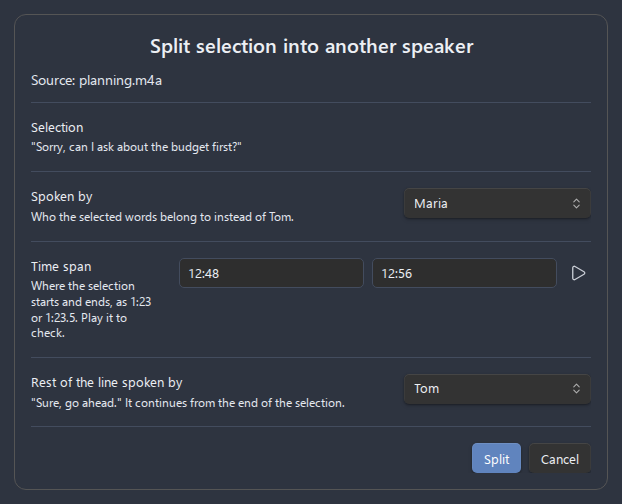
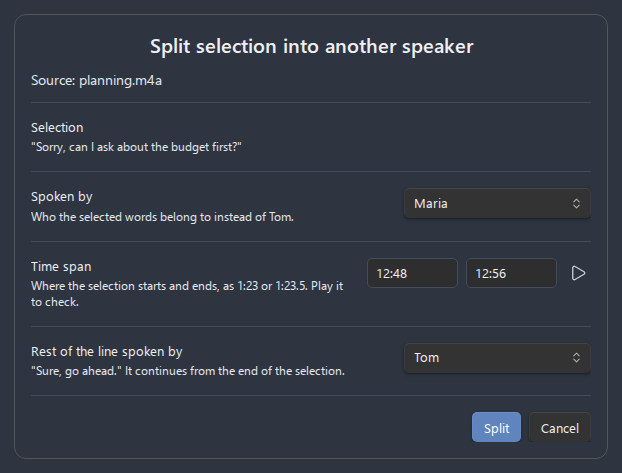
fix(speakers): find a split line's segments by its text, not only its second
Functional Changes:
- locateRowSegments identified a transcript line only by the whole second of
  its timecode link and its speaker, and took the first match. Two lines of
  one speaker opening in the same second (a short turn interrupted by
  another speaker, or unmerged segments) resolved to the earlier one, so a
  split rewrote another turn in the JSON, SRT, WebVTT and TXT files and
  dropped it. A run of segments now counts only when its text, joined the
  way the renderer merges a row, reads as the line's text, and the line is
  found only when exactly one run does; a hand-edited line or one of two
  identical lines changes the note alone, as the dialog already says.
- The split dialog's time fields keep the width of a timecode instead of
  taking the whole control column and squeezing the row's description
  (aar-split-time-input), and docs/images/dialog-split-transcript-line.png
  is re-rendered with it.

Test Changes:
- Unit cases for the interrupted turn, unmerged same-second segments, a
  hand-edited line and two identical lines.
- Integration cases for splitting the turn after an interruption, for the
  pieces keeping the templates the note was written with when the settings
  differ, and for the time fields' class.
- Coverage baseline re-recorded at 6358 tests.

diff --git a/src/speakers/transcriptSplit.ts b/src/speakers/transcriptSplit.ts
@@ -30,7 +30,10 @@ import {
 	type TranscriptMarkdownOptions,
 	type TranscriptMarkdownSettings,
 } from '../transcription/transcriptFormat';
-import { collectSpeakers } from '../transcription/transcriptModel';
+import {
+	collectSpeakers,
+	normalizeWhitespace,
+} from '../transcription/transcriptModel';
 import type {
 	Transcript,
 	TranscriptSegment,
@@ -127,38 +130,54 @@ export interface RowLocation {
 	nextSeconds: number | null;
 	/** Whether the note merged consecutive same-speaker segments. */
 	merge: boolean;
+	/** The spoken text the line shows (restored from the note's escaping). */
+	text: string;
 }
 
 /**
  * Finds the segments a rendered line was built from. A timecode link carries
- * whole seconds, so the line starts at the first segment in that second with
- * the speaker it shows, and runs on the way the renderer merged it - while
- * the same speaker continues - but never into the second the next line of the
+ * whole seconds, so the line starts at a segment in that second with the
+ * speaker it shows, and runs on the way the renderer merged it - while the
+ * same speaker continues - but never into the second the next line of the
  * note starts in. Bounding by the next line is what keeps a line found after an
  * earlier split, whose pieces the note shows apart but the transcript holds
  * next to a neighbour of the same speaker.
+ *
+ * The second and the speaker do not tell a line apart on their own: a short
+ * turn interrupted by another speaker puts two lines of one speaker in one
+ * second. So a run counts only when its text reads as the line's text, and
+ * the line is found only when exactly one run does - a line edited by hand, or
+ * one of two identical lines, is not guessed at, since splitting the wrong
+ * segments would rewrite another turn in every transcript file.
  * @param transcript - The transcript the line was rendered from
  * @param location - What identifies the line
- * @returns The segments behind the line, or null when none match it
+ * @returns The segments behind the line, or null when not exactly one run of
+ *   them matches it
  */
 export function locateRowSegments(
 	transcript: Transcript,
 	location: RowLocation,
 ): RowSpan | null {
 	const { segments } = transcript;
-	const first = segments.findIndex(
-		(segment) =>
-			Math.floor(segment.start) === location.seconds &&
-			(location.speaker === undefined ||
-				segment.speaker === location.speaker),
-	);
-	const head = segments[first];
-	if (!head) {
-		return null;
-	}
-	let last = first;
-	if (location.merge) {
-		for (let index = first + 1; index < segments.length; index++) {
+	const text = normalizeWhitespace(location.text);
+	const matches: RowSpan[] = [];
+	segments.forEach((head, first) => {
+		if (
+			Math.floor(head.start) !== location.seconds ||
+			(location.speaker !== undefined &&
+				head.speaker !== location.speaker)
+		) {
+			return;
+		}
+		// Joined the way the renderer merges a row, so the text compares
+		// with what the note line was written from.
+		let joined = head.text;
+		let match = normalizeWhitespace(joined) === text ? first : null;
+		for (
+			let index = first + 1;
+			location.merge && index < segments.length;
+			index++
+		) {
 			const segment = segments[index];
 			if (
 				!segment ||
@@ -168,10 +187,17 @@ export function locateRowSegments(
 			) {
 				break;
 			}
-			last = index;
+			joined = `${joined} ${segment.text}`;
+			if (normalizeWhitespace(joined) === text) {
+				match = index;
+			}
 		}
-	}
-	return { first, last };
+		if (match !== null) {
+			matches.push({ first, last: match });
+		}
+	});
+	const [only, ...others] = matches;
+	return only && others.length === 0 ? only : null;
 }
 
 /** Where a line sits on the timeline, as far as it is known. */

diff --git a/tests/integration/TranscriptSplitModal.test.ts b/tests/integration/TranscriptSplitModal.test.ts
@@ -15,6 +15,7 @@ import type {
 	ActionServices,
 	TranscriptSelectionContext,
 } from 'src/actions/PluginAction';
+import type { AudioRecorderSettings } from 'src/settings/settingsSchema';
 import { mergeSettings } from 'src/settings/settingsSerialization';
 import {
 	emptyTranscriptSection,
@@ -211,6 +212,8 @@ interface SutOptions {
 	duration?: Promise<number | null>;
 	/** Text appended to the note after the transcript. */
 	appended?: string;
+	/** Plugin settings on top of transcription being enabled. */
+	settings?: Partial<AudioRecorderSettings>;
 }
 
 function createSut(options: SutOptions = {}): Sut {
@@ -244,7 +247,10 @@ function createSut(options: SutOptions = {}): Sut {
 		isSidecarCorrupt: jest.fn().mockReturnValue(options.corrupt ?? false),
 		setSpeakers: jest.fn().mockResolvedValue(undefined),
 	};
-	const settings = mergeSettings({ transcriptionEnabled: true });
+	const settings = mergeSettings({
+		transcriptionEnabled: true,
+		...options.settings,
+	});
 	const services = partial<ActionServices>({
 		app,
 		getSettings: () => settings,
@@ -373,6 +379,68 @@ describe('TranscriptSplitModal', () => {
 			{ start: 11, end: 13, text: 'Go ahead.', speaker: 'Speaker 1' },
 			{ start: 14, end: 16, text: 'Thanks.', speaker: 'Bob' },
 		]);
+	});
+
+	it('splits the turn after an interruption in the same second, not the one before it', async () => {
+		// A timecode link carries whole seconds, so both Bob lines point at 0:45
+		// and only their text tells which segments the selection lies in.
+		const sut = createSut({
+			transcript: {
+				segments: [
+					{ start: 45.1, end: 45.3, text: 'Yeah.', speaker: 'Bob' },
+					{
+						start: 45.3,
+						end: 45.5,
+						text: 'What?',
+						speaker: 'Speaker 1',
+					},
+					{
+						start: 45.6,
+						end: 49,
+						text: 'I said hello there.',
+						speaker: 'Bob',
+					},
+				],
+				speakers: ['Bob', 'Speaker 1'],
+			},
+		});
+		const modal = await openDialog(sut, 'hello');
+
+		await pressSplit(modal);
+
+		expect(
+			(await writtenJson(sut)).segments.map(({ text }) => text),
+		).toEqual(['Yeah.', 'What?', 'I said', 'hello', 'there.']);
+	});
+
+	it('writes the pieces with the templates the note was written with, not the current settings', async () => {
+		const sut = createSut({
+			settings: {
+				transcriptSpeakerFormat: '[{speaker}]:',
+				transcriptLineFormat: '{speaker} {timestamp} {text}',
+				transcriptTimestampFormat: '({time})',
+			},
+		});
+		const modal = await openDialog(sut, 'Wait, I have a question.');
+
+		await pressSplit(modal);
+
+		expect(sut.editor.lineWith('Go ahead.')).toBe(
+			'[[rec.m4a#t=11|0:11]] **Speaker 1** Go ahead.',
+		);
+	});
+
+	it('keeps the time fields as narrow as a timecode', async () => {
+		const sut = createSut();
+
+		const modal = await openDialog(sut, 'Go ahead.');
+
+		expect(
+			allEls<HTMLInputElement>(
+				settingRow(modal.contentEl, 'Time span'),
+				'input',
+			).map((input) => input.classList.contains('aar-split-time-input')),
+		).toEqual([true, true]);
 	});
 
 	it('rewrites the subtitles from the split transcript', async () => {

diff --git a/tests/unit/transcriptSplit.test.ts b/tests/unit/transcriptSplit.test.ts
@@ -143,6 +143,7 @@ describe('locateRowSegments', () => {
 				speaker: 'Anna',
 				nextSeconds: 12,
 				merge: true,
+				text: 'one two three',
 			}),
 		).toEqual({ first: 1, last: 3 });
 	});
@@ -154,6 +155,7 @@ describe('locateRowSegments', () => {
 				speaker: 'Anna',
 				nextSeconds: 7,
 				merge: false,
+				text: 'one',
 			}),
 		).toEqual({ first: 1, last: 1 });
 	});
@@ -165,6 +167,7 @@ describe('locateRowSegments', () => {
 				speaker: 'Anna',
 				nextSeconds: 9,
 				merge: true,
+				text: 'one two',
 			}),
 		).toEqual({ first: 1, last: 2 });
 	});
@@ -176,6 +179,80 @@ describe('locateRowSegments', () => {
 				speaker: 'Bob',
 				nextSeconds: null,
 				merge: true,
+				text: 'one two three',
+			}),
+		).toBeNull();
+	});
+
+	it('finds nothing for a line whose text was edited by hand', () => {
+		expect(
+			locateRowSegments(transcript, {
+				seconds: 5,
+				speaker: 'Anna',
+				nextSeconds: 12,
+				merge: true,
+				text: 'one two three four',
+			}),
+		).toBeNull();
+	});
+});
+
+/**
+ * One speaker can open two lines in the same second, and the timecode link
+ * carries whole seconds only, so the line's text is what tells them apart.
+ * Taking the first line of that second would split another turn in every
+ * transcript file.
+ */
+describe('locateRowSegments with two lines of a speaker in one second', () => {
+	it('finds the turn after an interruption, not the one before it', () => {
+		const transcript = transcriptOf(
+			seg(45.1, 45.3, 'Yeah.', 'Bob'),
+			seg(45.3, 45.5, 'What?', 'Anna'),
+			seg(45.6, 47, 'I said hello there.', 'Bob'),
+		);
+
+		expect(
+			locateRowSegments(transcript, {
+				seconds: 45,
+				speaker: 'Bob',
+				nextSeconds: null,
+				merge: true,
+				text: 'I said hello there.',
+			}),
+		).toEqual({ first: 2, last: 2 });
+	});
+
+	it('finds the second of two unmerged segments', () => {
+		const transcript = transcriptOf(
+			seg(45.1, 45.5, 'Yeah.', 'Bob'),
+			seg(45.6, 47, 'I said hello there.', 'Bob'),
+		);
+
+		expect(
+			locateRowSegments(transcript, {
+				seconds: 45,
+				speaker: 'Bob',
+				nextSeconds: null,
+				merge: false,
+				text: 'I said hello there.',
+			}),
+		).toEqual({ first: 1, last: 1 });
+	});
+
+	it('finds nothing when both lines read the same', () => {
+		const transcript = transcriptOf(
+			seg(45.1, 45.3, 'Yeah.', 'Bob'),
+			seg(45.3, 45.5, 'What?', 'Anna'),
+			seg(45.6, 46, 'Yeah.', 'Bob'),
+		);
+
+		expect(
+			locateRowSegments(transcript, {
+				seconds: 45,
+				speaker: 'Bob',
+				nextSeconds: null,
+				merge: true,
+				text: 'Yeah.',
 			}),
 		).toBeNull();
 	});

diff --git a/src/ui/TranscriptSplitModal.ts b/src/ui/TranscriptSplitModal.ts
@@ -83,6 +83,12 @@ const EXCERPT_MAX_CHARS = 160;
 const SELECTION_PREVIEW_ID = 'selection';
 
 /**
+ * Class of the two time fields, which the stylesheet keeps as wide as a
+ * timecode so the row's description is not squeezed beside them.
+ */
+const TIME_INPUT_CLASS = 'aar-split-time-input';
+
+/**
  * The slice of the recording sidecar store the dialog needs: read the
  * transcript section, tell an unreadable sidecar from an empty one, and add
  * the speakers a split creates to the roster. Structural so tests can stub it.
@@ -249,6 +255,9 @@ export class TranscriptSplitModal extends PluginModal {
 					speaker: rowSpeaker,
 					nextSeconds,
 					merge: options.mergeConsecutiveSpeaker,
+					text: restoreWikilinks(
+						lineText.slice(parsed.textStart, parsed.textEnd),
+					),
 				})
 			: null;
 		const timing: RowTiming =
@@ -345,10 +354,12 @@ export class TranscriptSplitModal extends PluginModal {
 				text.setPlaceholder('Start').setValue(
 					formatSplitTime(times.start),
 				);
+				text.inputEl.addClass(TIME_INPUT_CLASS);
 				this.startInput = text;
 			})
 			.addText((text) => {
 				text.setPlaceholder('End').setValue(formatSplitTime(times.end));
+				text.inputEl.addClass(TIME_INPUT_CLASS);
 				this.endInput = text;
 			})
 			.addExtraButton((button) => {

diff --git a/styles/styles.css b/styles/styles.css
@@ -1203,6 +1203,14 @@ button.aar-player-marker-row {
     font-size: 0.9em;
 }
 
+/* The split dialog's start and end fields hold a timecode, so they stay that
+   wide instead of taking the whole control column from the row's description.
+   Stated under .modal because the app sizes input[type='text'] itself. */
+.modal .setting-item-control input.aar-split-time-input {
+    flex: 0 0 auto;
+    width: 7em;
+}
+
 .aar-modal-status {
     margin: 8px 0 4px;
     font-size: 0.9em;

diff --git a/docs/transcription.md b/docs/transcription.md
@@ -284,7 +284,7 @@ Diarization also errs the other way: when two people talk over each other, or th
 What changes:
 
 - **The note.** The line is replaced by one line per part, written with the same templates the transcript was written with (read from the recording's sidecar) and with a timecode link at each part's start. The edit goes through the editor, so **Ctrl/Cmd+Z** undoes it like any other.
-- **The transcript files.** When the transcription saved a **JSON** transcript, its segments behind the line are split at the entered times, each part keeping the word timings spoken in it, and every transcript file the run wrote (JSON, SRT, WebVTT, TXT) is rewritten from it. Without a JSON transcript - or when it holds no segment matching the line, for example after hand edits - only the note changes; the dialog says so beforehand and the notice afterwards counts the files kept as they were. Subtitles and plain text drop the timings a split needs, so they are never cut on their own, and translations are never touched. These writes are not undone by the editor's undo.
+- **The transcript files.** When the transcription saved a **JSON** transcript, its segments behind the line are split at the entered times, each part keeping the word timings spoken in it, and every transcript file the run wrote (JSON, SRT, WebVTT, TXT) is rewritten from it. Without a JSON transcript - or when it holds no segments whose text matches the line, for example after hand edits, or two identical lines of one speaker in the same second - only the note changes; the dialog says so beforehand and the notice afterwards counts the files kept as they were. Subtitles and plain text drop the timings a split needs, so they are never cut on their own, and translations are never touched. These writes are not undone by the editor's undo.
 - **The speaker roster.** A new speaker, or a participant nobody was named after, is added to the recording's roster under the next free `Speaker N` label with the selection as its first turn, so **Rename speakers** lists it, plays it, and renames its lines like any diarized speaker.
 
 The dialog refuses times that leave the text before the selection no time (the selection has to start after the line does) or the text after it none (it has to end before the line does), and it refuses to write when the line changed while the dialog was open. A sidecar that cannot be read is protected the same way as in **Rename speakers**: nothing is split until it is restored or removed.
